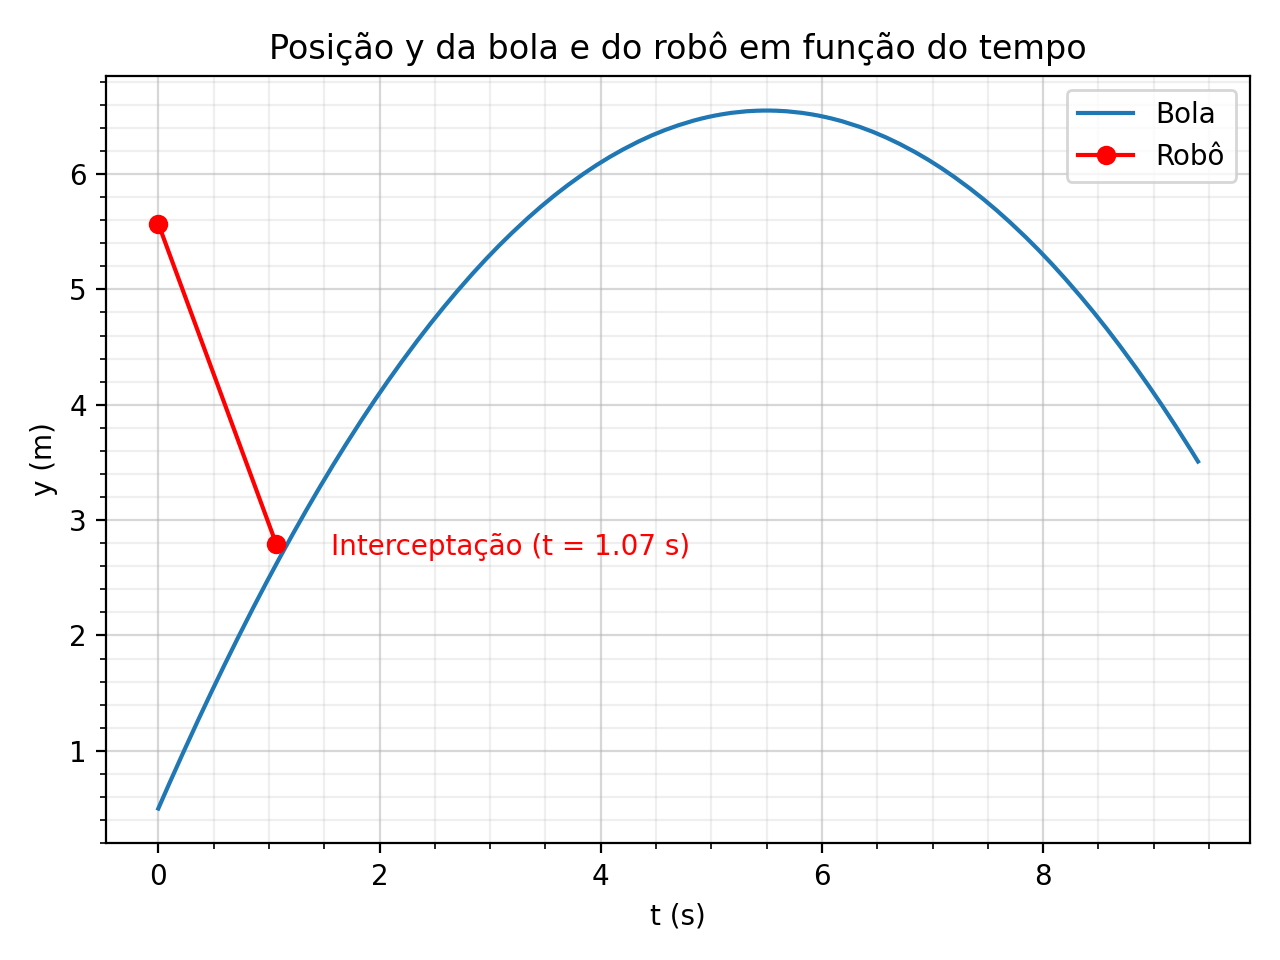
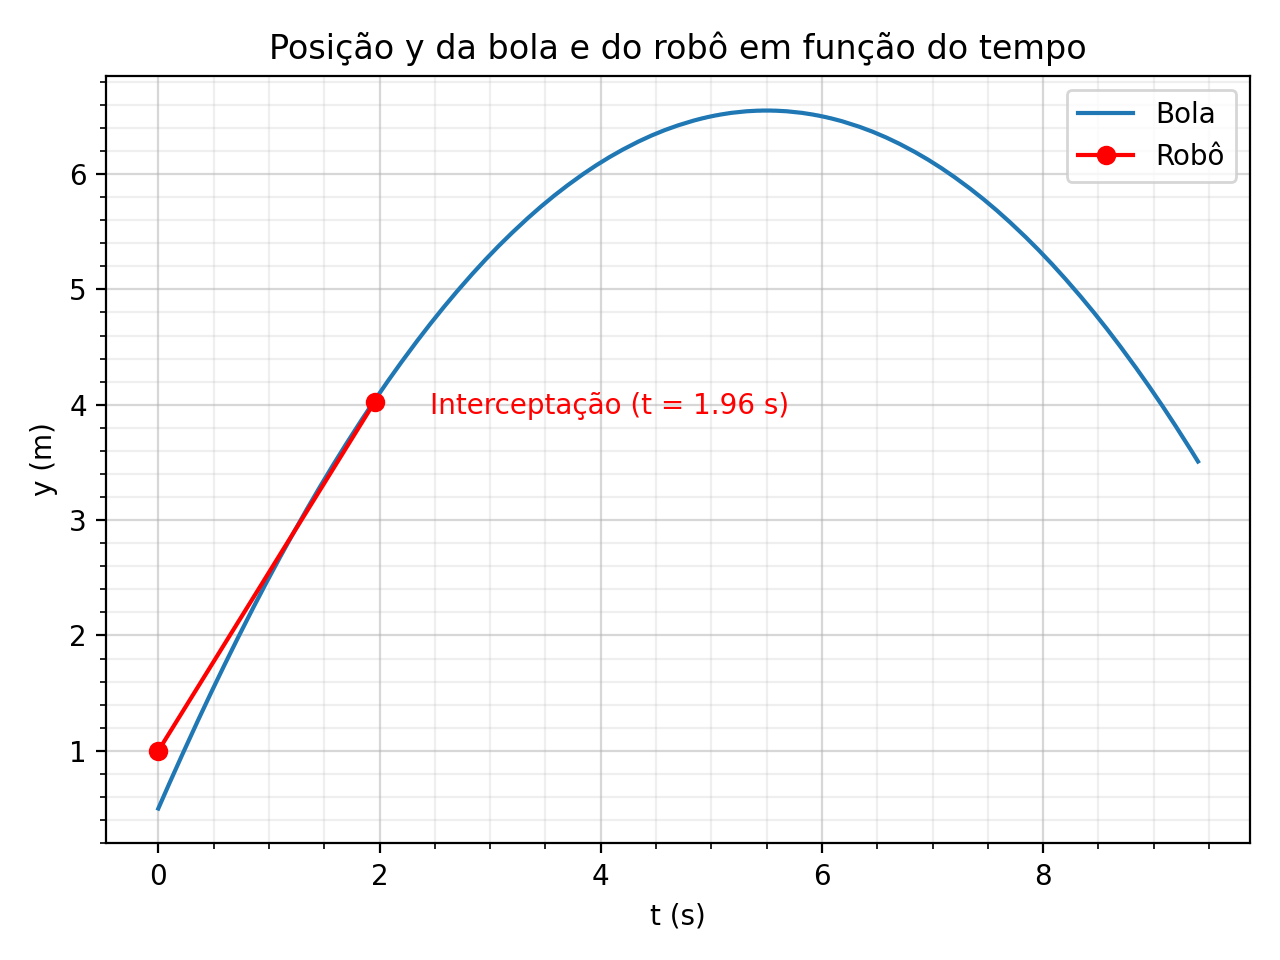
Fixed Simulation Orientation

diff --git a/main.py b/main.py
@@ -479,11 +479,11 @@ def run():
     canvas_campo.img = img_campo
 
     # cria o robo
-    canvas_campo.create_image(sx*142.23, sy*142.17, anchor=NW, image=img_robo)
+    canvas_campo.create_image(sx*142.23, 853-(sy*142.17), anchor=NW, image=img_robo)
     canvas_campo.img = img_robo
 
     # cria a bola
-    canvas_campo.create_image(lx[0]*142.23, ly[0]*142.17, anchor=NW, image=img_bola)
+    canvas_campo.create_image(lx[0]*142.23, 853-(ly[0]*142.17), anchor=NW, image=img_bola)
     canvas_campo.imgbola = img_bola
     
 # cria botão de execução
@@ -555,13 +555,13 @@ def iniciar_simulacao():
     tg = (lx[len(t_return)]-rx_return[0])/(ly[len(t_return)]-ry_return[0])
     ang = atan(tg)
     ang = degrees(ang)
-    if rx_return[0] > lx[len(t_return)] and ry_return[0] > ly[len(t_return)]:
+    if rx_return[0] > lx[len(t_return)] and ry_return[0] < ly[len(t_return)]:
         ang = -ang
-    elif rx_return[0] > lx[len(t_return)] and ry_return[0] < ly[len(t_return)]:
-        ang = -ang
+    elif rx_return[0] > lx[len(t_return)] and ry_return[0] > ly[len(t_return)]:
+        ang = ang + 90
     else:
-        ang = 180 - ang
-    img_robo = ImageTk.PhotoImage(Image.open("images/robot.png").rotate(ang))
+        ang = ang - 90
+    img_robo = ImageTk.PhotoImage(Image.open("images/robot.png").rotate(270+ang))
     canvas.test = img_robo
 
     for i in range(len(t_return)):
@@ -569,10 +569,10 @@ def iniciar_simulacao():
         canvas_campo.create_image(0, 0, anchor=NW, image=img_campo)
         canvas_campo.img = img_campo
         if i > len(t_return) - 2:
-            canvas_campo.create_image(rx_return[len(t_return)-2]*142.23, ry_return[len(t_return)-2]*142.17, anchor=CENTER, image=img_robo)
+            canvas_campo.create_image(rx_return[len(t_return)-2]*142.23, 853-(ry_return[len(t_return)-2]*142.17), anchor=CENTER, image=img_robo)
         else:
-            canvas_campo.create_image(rx_return[i]*142.23, ry_return[i]*142.17, anchor=CENTER, image=img_robo)
-        canvas_campo.create_image(lx[i]*142.23, ly[i]*142.17, anchor=CENTER, image=img_bola)
+            canvas_campo.create_image(rx_return[i]*142.23, 853-(ry_return[i]*142.17), anchor=CENTER, image=img_robo)
+        canvas_campo.create_image(lx[i]*142.23, 853-(ly[i]*142.17), anchor=CENTER, image=img_bola)
         canvas_campo.update()
         sleep(0.02)
 
@@ -584,11 +584,11 @@ def iniciar_simulacao():
     canvas_campo.img = img_campo
 
     # cria o robo
-    canvas_campo.create_image(rx_return[0]*142.23, ry_return[0]*142.17, anchor=NW, image=img_robo)
+    canvas_campo.create_image(rx_return[0]*142.23, 853-(ry_return[0]*142.17), anchor=NW, image=img_robo)
     canvas_campo.img = img_robo
 
     # cria a bola
-    canvas_campo.create_image(lx[0]*142.23, ly[0]*142.17, anchor=NW, image=img_bola)
+    canvas_campo.create_image(lx[0]*142.23, 853-(ly[0]*142.17), anchor=NW, image=img_bola)
     canvas_campo.imgbola = img_bola
 
 # cria o botão para iniciar a simulação
